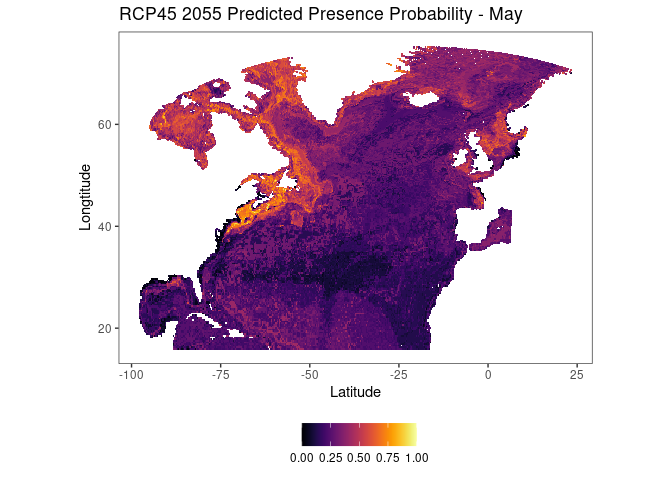
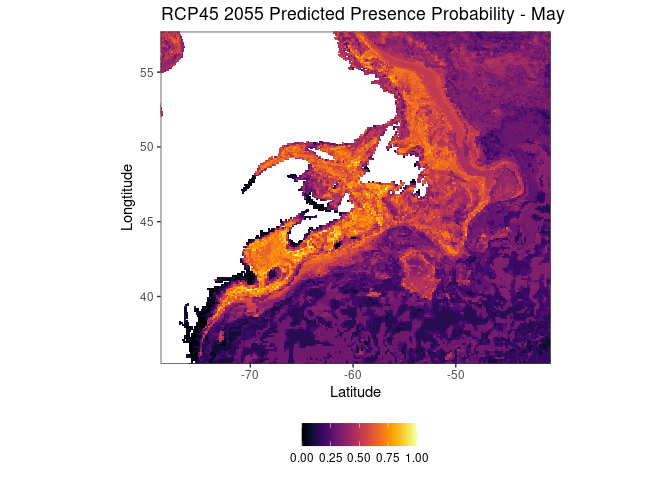
updated 2055 example - higher res, cropped

diff --git a/README.md b/README.md
@@ -372,13 +372,10 @@ First, generate predictions using `get_predictions()`.
     has long runtimes and resulting file sizes of 200+ MB. A
     `downsample` value of 2 or 3 is a better starting point. For more
     information on how `downsample` scales the Brickman data, see
-    [`stars::st_downsample()`](https://r-spatial.github.io/stars/reference/st_downsample.html).
+    [`stars::st_downsample()`](https://r-spatial.github.io/stars/reference/st_downsample.html). This walkthrough does not contain an example of original resolution projections for memory reasons. 
 
 ``` r
 source("brickman_walkthrough_help.R")
-
-# the downsample value is best kept the same for all predictions
-downsample_val <- 3
 
 # predictions for the most extreme climate situation: RCP85 2075. 
 rcp85_2075 <- get_predictions(wkf = workflow, # a fitted workflow used to predict
@@ -387,25 +384,27 @@ rcp85_2075 <- get_predictions(wkf = workflow, # a fitted workflow used to predic
                               scenario = "RCP85", # scenario of predictions
                               augment_preds = FALSE, # bind predictions to covariates?
                               verbose = FALSE, 
-                              downsample = downsample_val) # resolution of predictions
-
-# predictions for the least extreme future climate situation: RCP45 2055
-rcp45_2055 <- get_predictions(wkf = workflow, 
-                              brickman_vars = VARS,
-                              year = 2055, # note changed year and scenario
-                              scenario = "RCP45", 
-                              augment_preds = FALSE, 
-                              verbose = FALSE, 
-                              downsample = downsample_val)
+                              downsample = 3) # resolution of predictions
 
 # present day predictions
+# Since I intend to compare RCP85 2075 to present day, the downsample value must be the same
 present_preds <- get_predictions(wkf = workflow, 
                                  brickman_vars = VARS, 
                                  year = NA, # note that PRESENT is a scenario, not a year
                                  scenario = "PRESENT",
                                  augment_preds = FALSE,
                                  verbose = FALSE,
-                                 downsample = downsample_val)
+                                 downsample = 3)
+
+# predictions for the least extreme future climate situation: RCP45 2055
+# Generating these predictions at a slightly higher resolution
+rcp45_2055 <- get_predictions(wkf = workflow, 
+                              brickman_vars = VARS,
+                              year = 2055, 
+                              scenario = "RCP45", 
+                              augment_preds = FALSE, 
+                              verbose = FALSE, 
+                              downsample = 1) # higher resolution
 
 # list of 12 tibbles of prediction data - 1 per month
 length(rcp85_2075)
@@ -418,20 +417,20 @@ length(rcp85_2075)
 rcp45_2055[["Oct"]]
 ```
 
-    ## # A tibble: 50,073 × 6
+    ## # A tibble: 199,783 × 6
     ##    .pred_0 .pred_1   lon   lat MONTH .pred_class
     ##      <dbl>   <dbl> <dbl> <dbl> <fct> <fct>      
     ##  1   0.825   0.175  6.20  37.0 10    0          
-    ##  2   0.825   0.175  6.21  37.2 10    0          
-    ##  3   0.825   0.175  6.22  37.5 10    0          
-    ##  4   0.825   0.175  6.23  37.7 10    0          
-    ##  5   0.809   0.191  6.24  38.0 10    0          
-    ##  6   0.809   0.191  6.25  38.2 10    0          
-    ##  7   0.825   0.175  6.26  38.5 10    0          
-    ##  8   0.892   0.108  6.27  38.7 10    0          
-    ##  9   0.875   0.125  6.28  39.0 10    0          
-    ## 10   0.825   0.175  6.29  39.2 10    0          
-    ## # … with 50,063 more rows
+    ##  2   0.825   0.175  6.21  37.1 10    0          
+    ##  3   0.825   0.175  6.21  37.2 10    0          
+    ##  4   0.825   0.175  6.22  37.3 10    0          
+    ##  5   0.825   0.175  6.22  37.5 10    0          
+    ##  6   0.825   0.175  6.23  37.6 10    0          
+    ##  7   0.825   0.175  6.23  37.7 10    0          
+    ##  8   0.825   0.175  6.23  37.8 10    0          
+    ##  9   0.809   0.191  6.24  38.0 10    0          
+    ## 10   0.825   0.175  6.24  38.1 10    0          
+    ## # … with 199,773 more rows
 
 There are three pre-defined ways to visualize prediction data:
 
@@ -470,13 +469,14 @@ raw_plots_rcp85_2075[["Oct"]]
 
 ``` r
 # another example of raw plots, now for RCP45 2055 
+# This plot is cropped to the Gulf of Maine / Gulf of St. Lawrence
 raw_plots_rcp45_2055 <- get_value_plots(preds_list = rcp45_2055, 
                                         title = "RCP45 2055 Predicted Presence Probability",
-                                        pt_size = .3, 
-                                        xlim = NULL, 
-                                        ylim = NULL)
+                                        pt_size = .4, # note adjusted point size
+                                        xlim = c(-77.0, -42.5), # cropping
+                                        ylim = c(36.5,  56.7))
 
-# What are the predicted presence probabilities for RCP45 2055 in May? 
+# What are the predicted presence probabilities for RCP45 2055 in May in the GoM/GSL? 
 raw_plots_rcp45_2055[["May"]]
 ```
 
